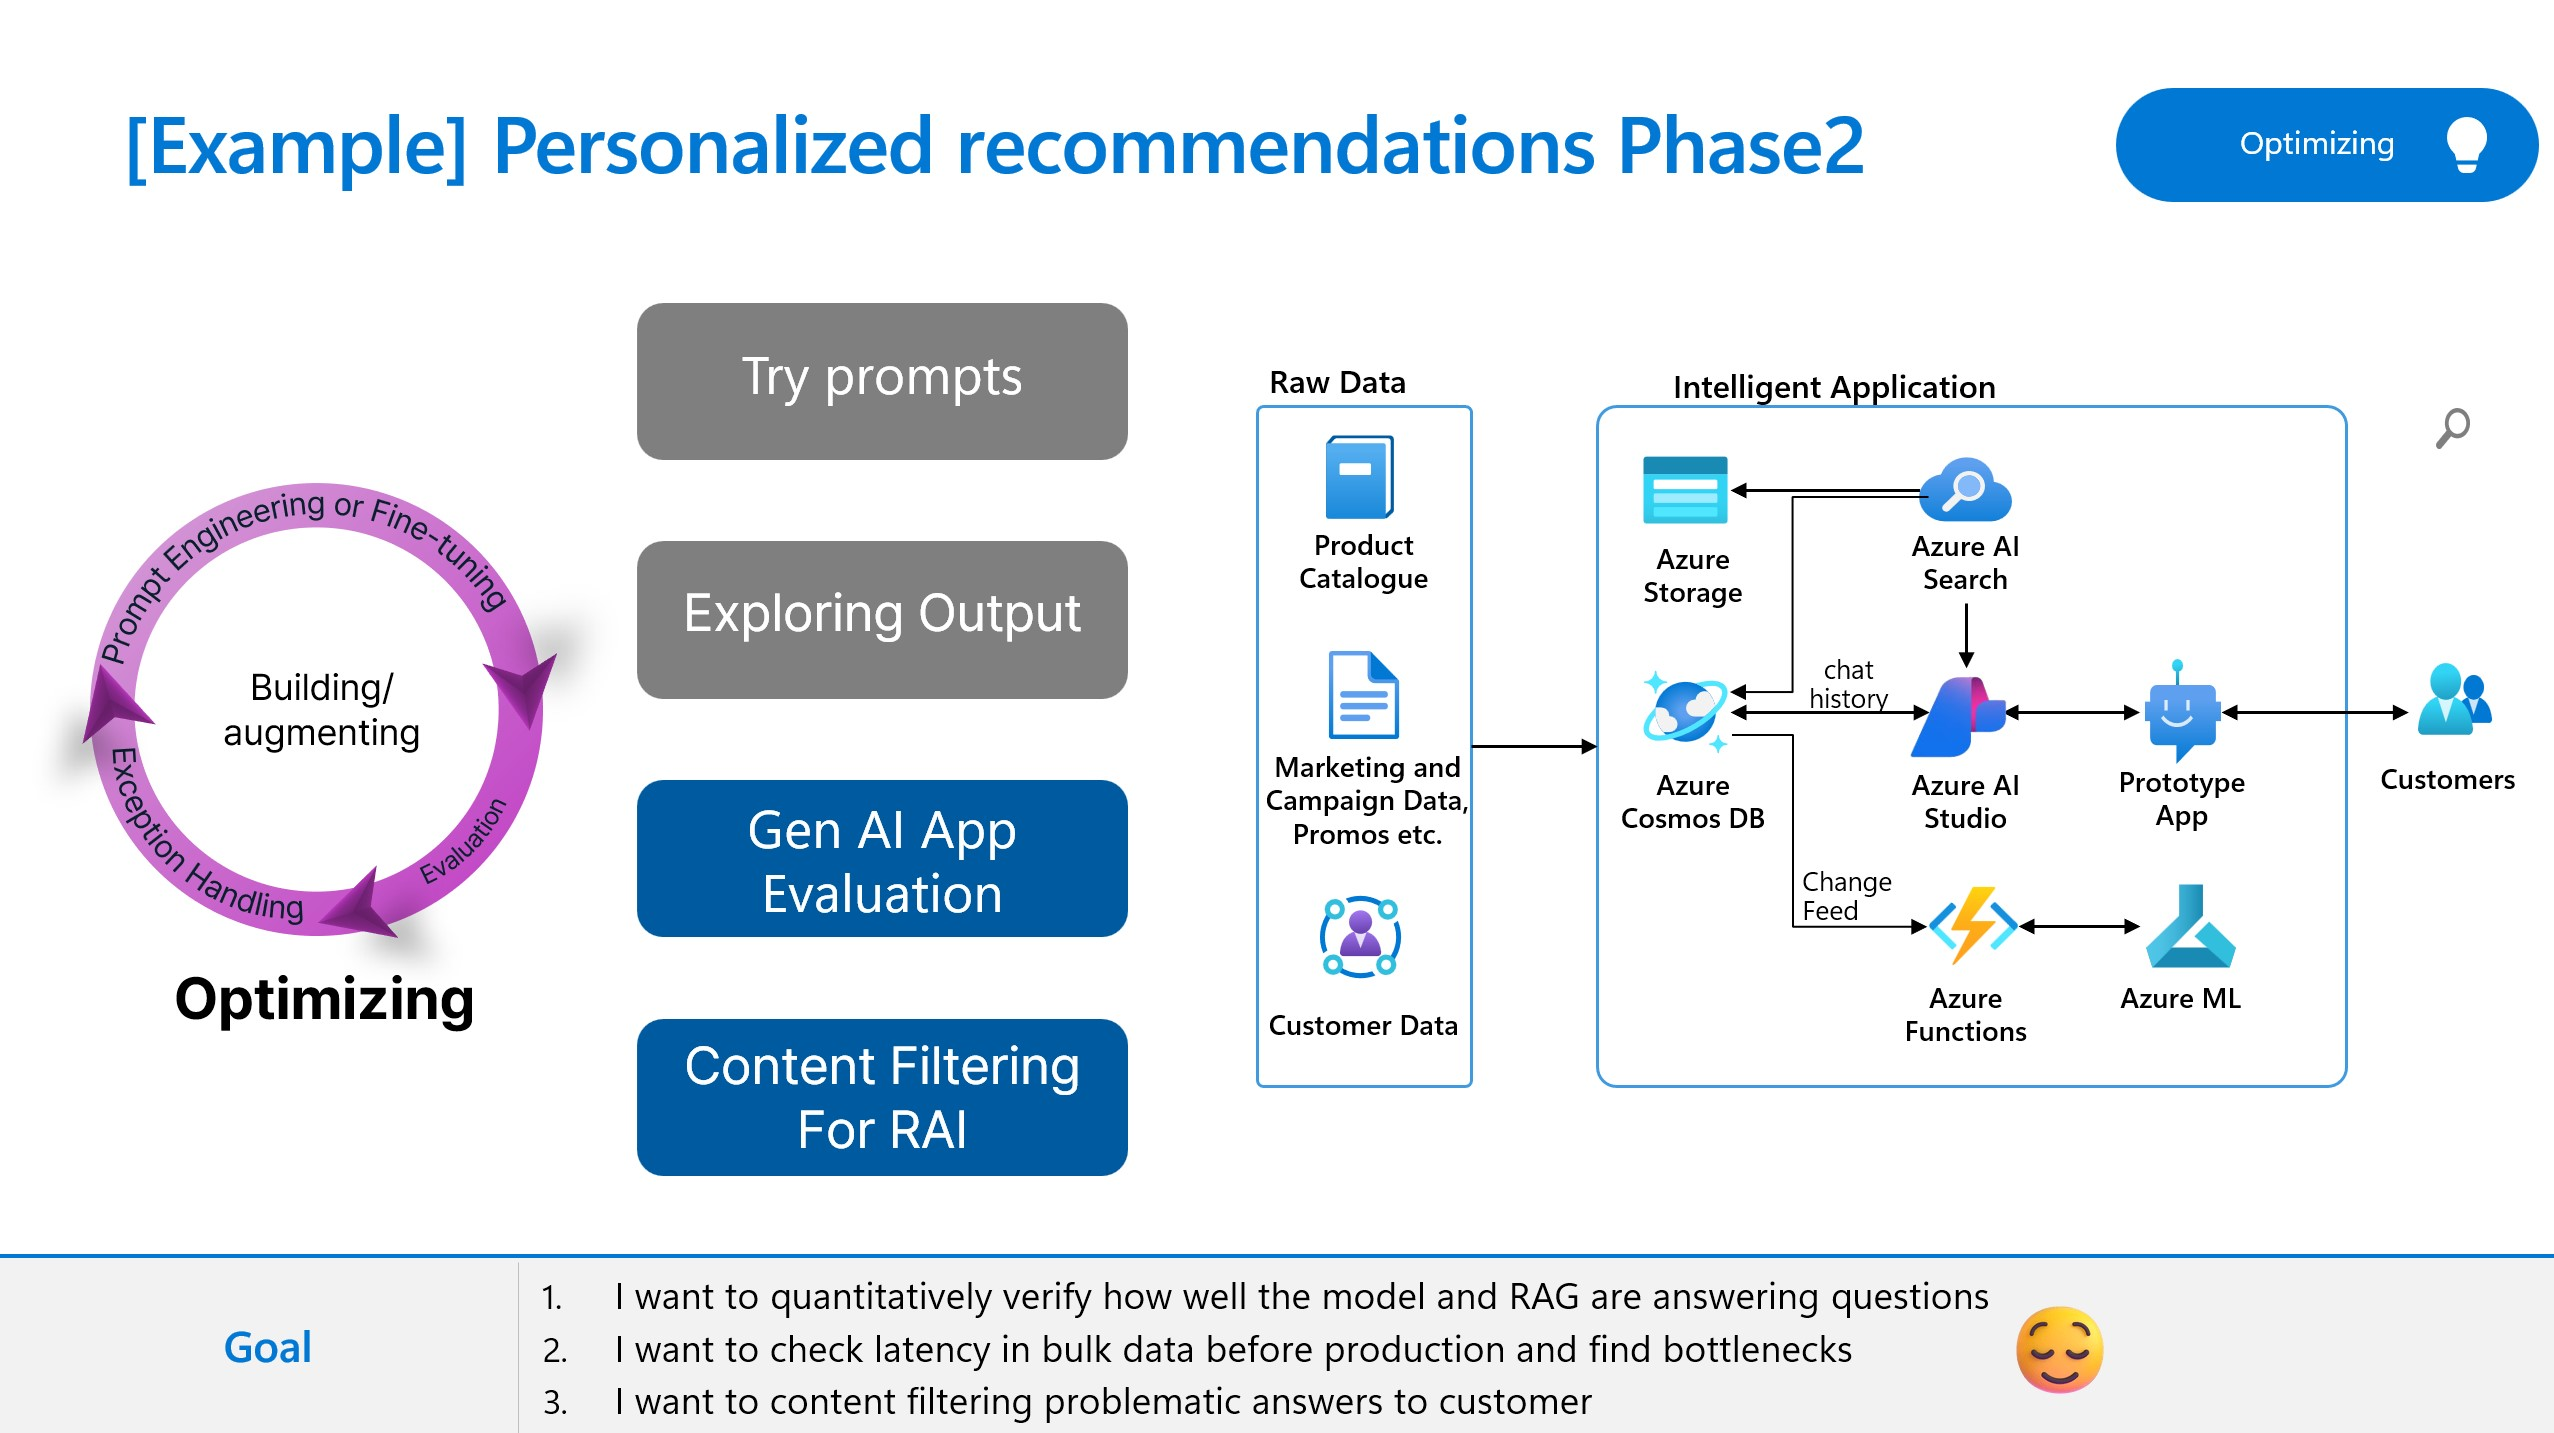
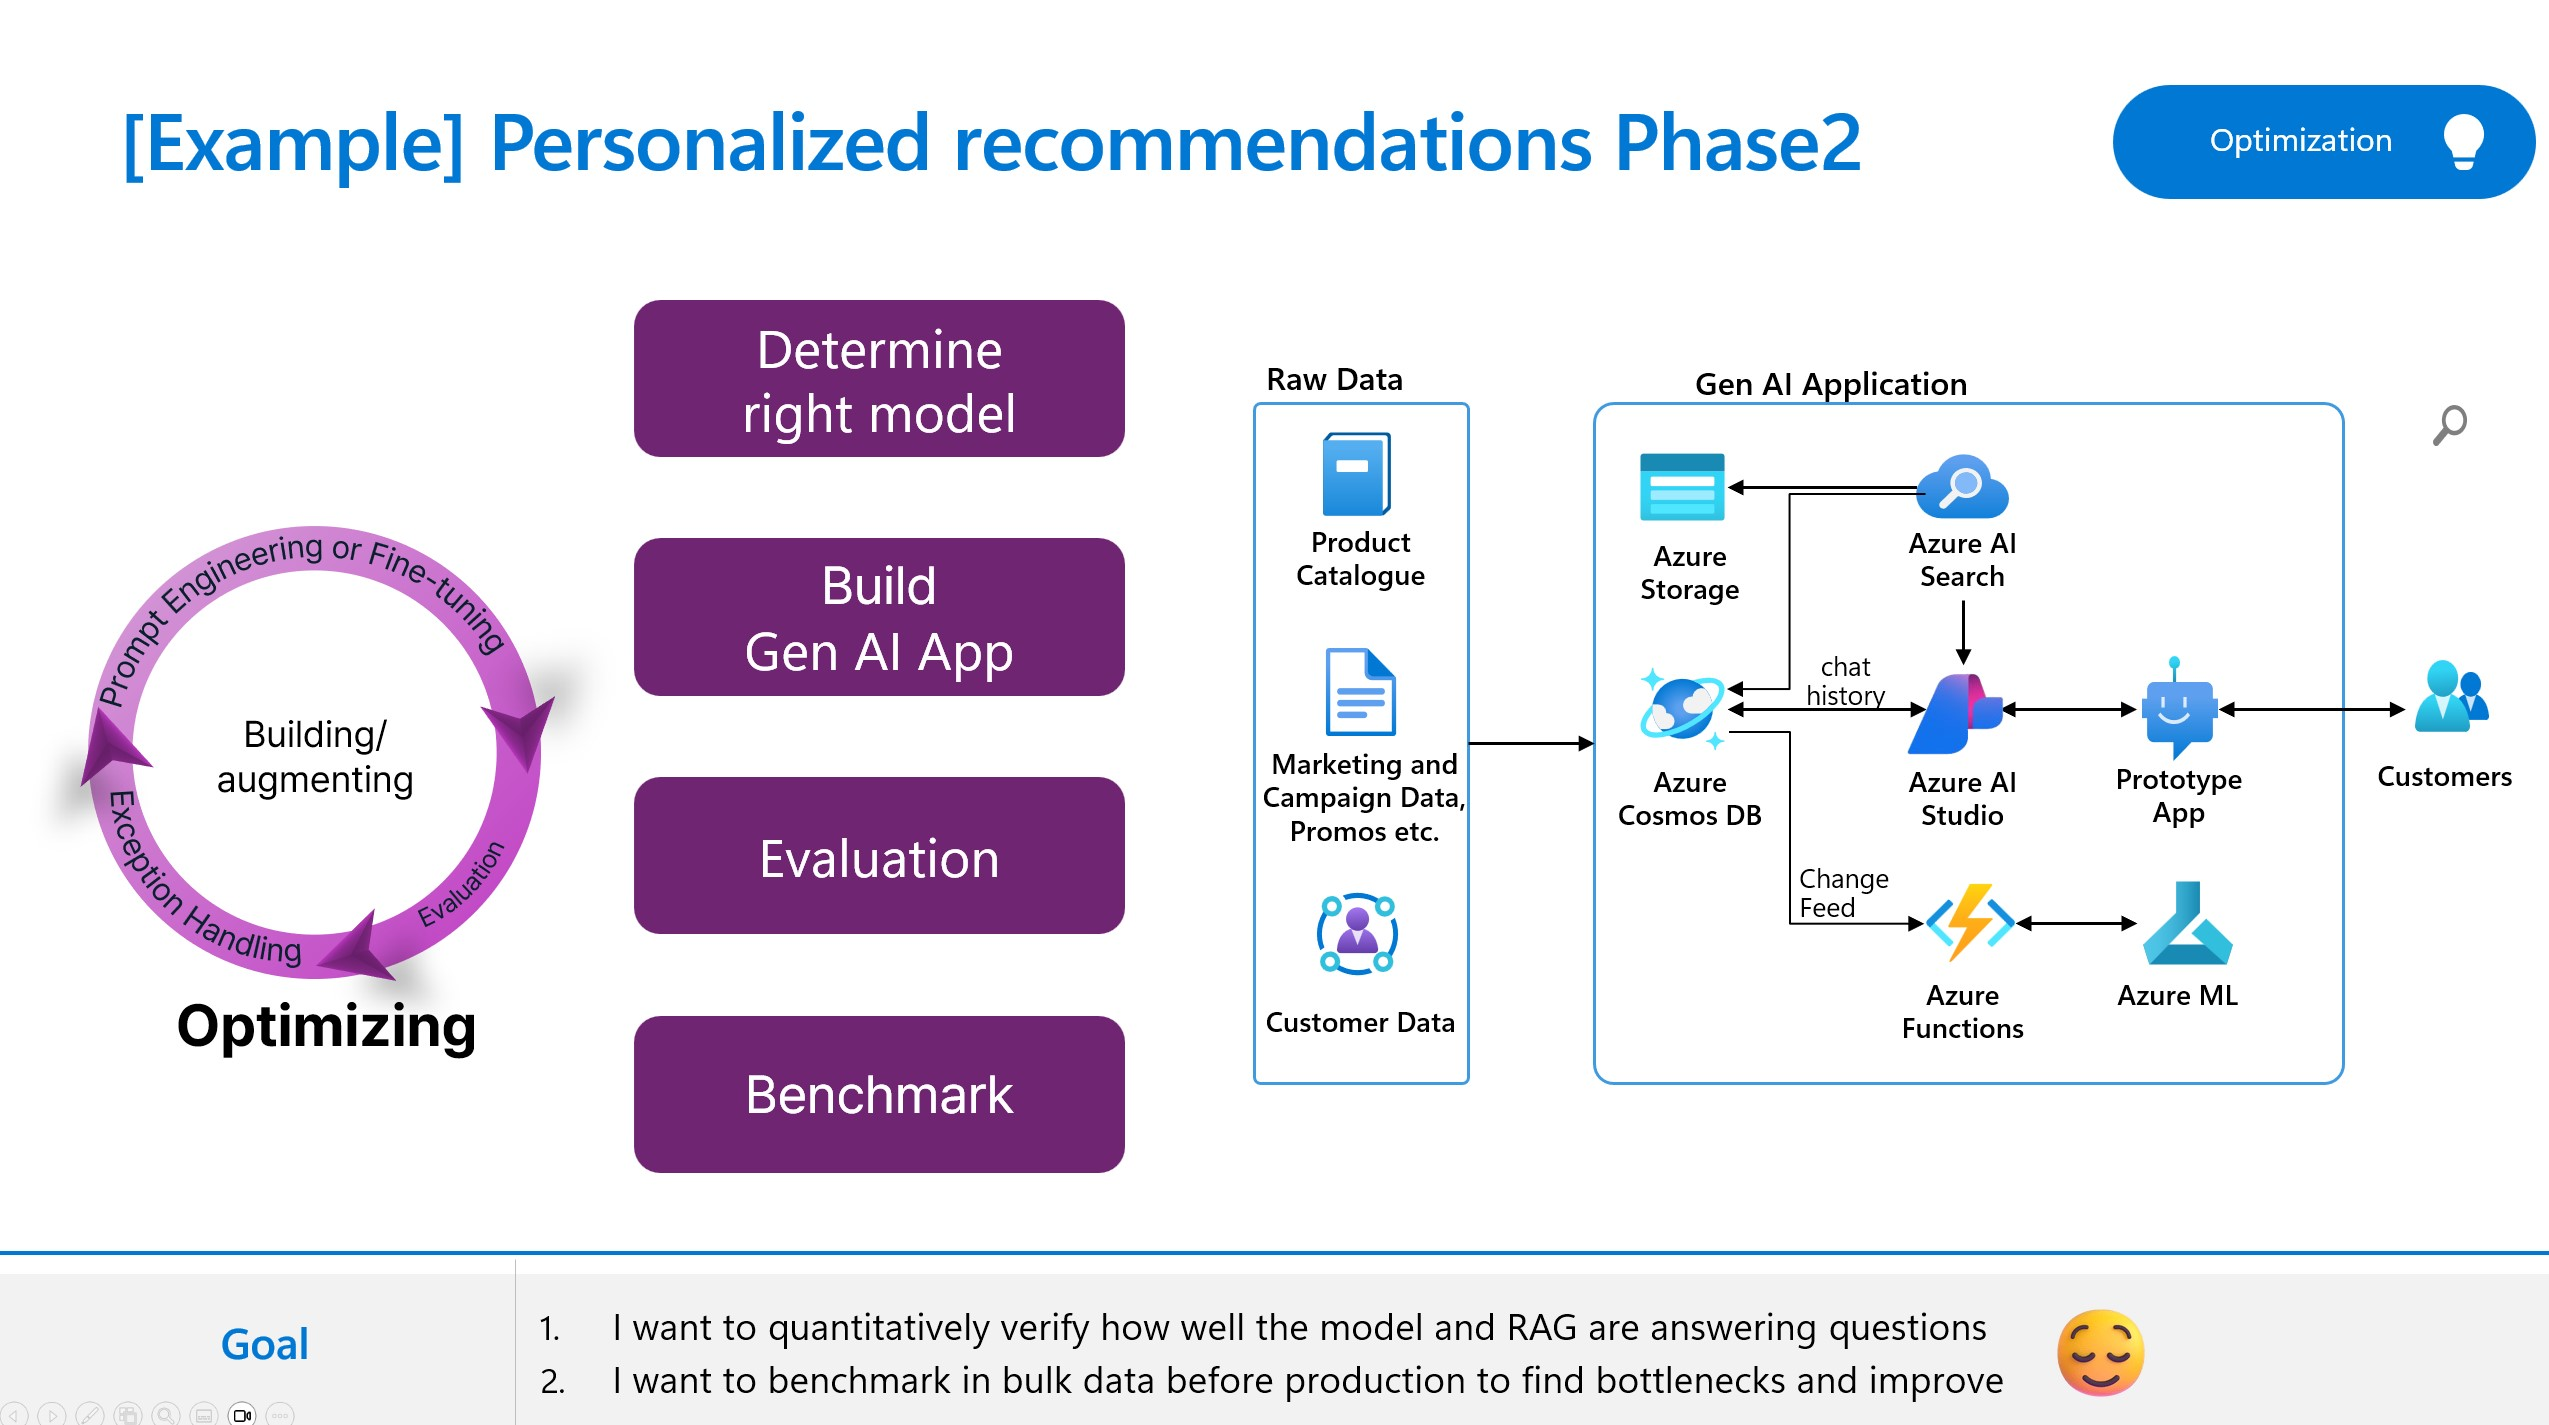
update evaluation

diff --git a/3_llmops-aistudio/3_3_optimizing/lab3.3_evaluation_ko.md b/3_llmops-aistudio/3_3_optimizing/lab3.3_evaluation_ko.md
@@ -15,7 +15,7 @@ In this lab, you will explore your model in Azure AI studio and conduct A/B test
 ### Prerequisites
 
 - An Azure subscription where you can create an AI Hub and AI project Resource
-- Registered the Fine-tune model and deployed LLMs in Azure AI Studio
+- Deployed gpt-4o model in Azure AI Studio
 
 
 ### Task
@@ -26,25 +26,157 @@ In this lab, you will explore your model in Azure AI studio and conduct A/B test
 
 ### TOC
 - 1⃣ Manual evaluations to review outputs of the selected model
-- 1⃣ Create QnA Relevance Evaluation flow 
-- 2⃣ Review the QnA Relevance Evaluation flow 
-- 3⃣ View Test Result of the Evaluation flow
+- 2⃣ Conduct A/B testing with your LLM variants
+
+- 3⃣ Create QnA Relevance Evaluation flow with variants
 - 4⃣ Automated evaluation for Korean and English math questions
 
-### 1⃣ Manual evaluations to review outputs of the selected model
+### 1⃣ Manual evaluations to review outputs of the selected model 
 1. Go to the Azure AI Studio and select the model you want to evaluate.
-2. Click on the "Test" button to test the model with a prompt.
-3. Review the output and check if the model is answering the question correctly.
-4. Repeat the process with different prompts and check the model's performance.
+2. Click on the "Evaluation" tab to create an manual evaluation flow.
+3. Create a manual evaluation flow with the selected model.
 
-### 2⃣ Create QnA Relevance Evaluation flow  
+### 2⃣ Conduct A/B testing with your LLM variants
+Create a new chat flow with variants 
+1. Azure AI Studio > Prompt flow > Click +Create to create a new flow
+![create a new flow](../3_2_prototyping/images/create_new_flow.jpg)
+
+2. In order to get a user-friendly chat interface, select Chat flow
+![select Chat flow](../3_2_prototyping/images/create_new_chat_flow.jpg)
+
+3. Put your folder name to store your Promptflow files and click the Create button
+![Put your folder name](../3_2_prototyping/images/put_folder_name.jpg)
+
+4. Change as raw file model to modify your basic chat flow
+![Put your folder name](../3_2_prototyping/images/change_raw_file_mode.jpg)
+
+5. Modify flow.dag.yaml attach the source code below. 
+```
+id: chat_variant_flow
+name: Chat Variant Flow
+inputs:
+  question:
+    type: string
+    is_chat_input: true
+  contenxt:
+    type: string
+    default: >
+      The Alpine Explorer Tent boasts a detachable divider for privacy, 
+      numerous mesh windows and adjustable vents for ventilation, and 
+      a waterproof design. It even has a built-in gear loft for storing 
+      your outdoor essentials. In short, it's a blend of privacy, comfort, 
+      and convenience, making it your second home in the heart of nature!
+    is_chat_input: false
+  firstName:
+    type: string
+    default: "Jake"
+    is_chat_input: false
+outputs:
+  answer:
+    type: string
+    reference: ${chat_variants.output}
+    is_chat_output: true
+nodes:
+- name: chat_variants
+  type: llm
+  source:
+    type: code
+    path: chat_variants.jinja2
+  inputs:
+    deployment_name: gpt-4o
+    temperature: 0.7
+    top_p: 1
+    max_tokens: 512
+    context: ${inputs.contenxt}
+    firstName: ${inputs.firstName}
+    question: ${inputs.question}
+  api: chat
+  provider: AzureOpenAI
+  connection: ''
+environment:
+  python_requirements_txt: requirements.txt
+```
+6. Change the Raw file mode again and Add the connection parameters of the LLM Node to call the deployed LLM model and Click Validate and parse input. Check inputs to the LLM Node in place.
+![add the connection parameters](images/add_gpt4o_node2.jpg)
+
+7. attach the prompt below on your chat_variants Node to request the deployed model. 
+```
+system:
+You are an AI assistant who helps people find information. As the assistant, 
+you answer questions briefly, succinctly, and in a personable manner using 
+markdown and even add some personal flair with appropriate emojis.
+
+Add a witty joke that begins with “By the way,” or “By the way. 
+Don't mention the customer's name in the joke portion of your answer. 
+The joke should be related to the specific question asked.
+For example, if the question is about tents, the joke should be specifically related to tents.
+
+Respond in your language with a JSON object like this.
+{
+  “answer": 
+  “joke":
+}
+
+# Customer
+You are helping {{firstName}} to find answers to their questions.
+Use their name to address them in your responses.
+
+# Context
+Use the following context to provide a more personalized response to {{firstName}}:
+{{context}}
+
+user:
+{{question}}
+```
+
+8. Save your modified flow. Make sure that your compute instance is running to execute the updated chat flow
+![create a new flow](../3_2_prototyping/images/save_and_run_compute_session.jpg)
+
+9. Let's test the current flow on the chat window
+![test the flow](images/test_current_flow.jpg)
+
+10. Now you can generate a variant and compare the results with the prompt written in Korean. Click the generate variant button to create a new variant.
+![add variants](images/add_variants.jpg)
+
+11. Add the variant name and the prompt in Korean below. Click the save button to save the variant.
+```
+system:
+당신은 사람들이 정보를 찾을 수 있도록 도와주는 AI 어시스턴트입니다. 어시스턴트로서 
+를 사용하여 질문에 간결하고 간결하게, 그리고 개성 있는 방식으로 답변하고 
+마크다운을 사용하여 간단하고 간결하게 답변하고 적절한 이모티콘으로 개인적인 감각을 더할 수도 있습니다.
+
+"그런데, "로 시작하는 재치 있는 농담을 추가하세요. 답변의 농담 부분에서는 고객의 이름을 언급하지 마세요. 
+농담은 질문한 특정 질문과 관련이 있어야 합니다.
+예를 들어 텐트에 대한 질문인 경우 농담은 텐트와 구체적으로 관련된 것이어야 합니다.
+
+다음과 같은 json 객체로 한국어로 응답합니다.
+{
+  "answer": 
+  "joke":
+}
+
+# Customer
+당신은 {{firstName}} 이 질문에 대한 답변을 찾도록 돕고 있습니다.
+답변에 상대방의 이름을 사용하여 상대방을 언급하세요. 
+
+# Context
+다음 컨텍스트를 사용하여 {{firstName}}에게 보다 개인화된 응답을 제공하세요. 한국어로 답변 바랍니다:
+{{context}}
+
+user:
+{{question}}
+```
+
+12. Now you can test the variants on the chat window setting one of variants as default. Click the Run button to test the variant. 
+
+
+
+
+
+### 3⃣ Create QnA Relevance Evaluation flow with variants
 1. Go to the Azure AI Studio and select the model you want to evaluate.
 2. Click on the "Evaluation" tab to create an evaluation flow.
 3. Create a QnA Relevance Evaluation flow with variants.
 4. Review the Evaluation flow and variants.
-
-
-### 3⃣ View Test Result of the Evaluation flow
-- 
 
 ### 4⃣ Automated evaluation for Korean and English math questions

diff --git a/3_llmops-aistudio/README.md b/3_llmops-aistudio/README.md
@@ -10,7 +10,7 @@ In this lab, you will learn how to set up, test, deploy, evaluate and monitor yo
 
 **Scenario 2: Basic LLMOps for your first gen AI app with Promptflow**
 
-**Scenario 3: Evaluate your models using Prompt Flow to improve the quality of service**
+**Scenario 3: Evaluate your models using Prompt Flow to keep optimizing**
 
 **Scenario 4: Responsible AI, Content Safety with Azure AI studio before production** 
 
@@ -28,6 +28,8 @@ In this lab, you will learn how to set up, test, deploy, evaluate and monitor yo
 [LLMOps Prompt flow template github](https://github.com/microsoft/llmops-promptflow-template) 
 
 [GenAIOps github](https://github.com/Azure/GenAIOps)
+
+[Phi-3CookBook](https://github.com/microsoft/Phi-3CookBook?wt.mc_id=studentamb_279723)
 
 https://github.com/just-the-docs/just-the-docs?tab=readme-ov-file#user-content-fn-2-6204df4f8c0dad5766232d4558ca98cf 
 

diff --git a/3_llmops-aistudio/3_2_prototyping/lab3.2_promptflow_ko.md b/3_llmops-aistudio/3_2_prototyping/lab3.2_promptflow_ko.md
@@ -8,9 +8,9 @@ permalink: /3_2_prototyping/
 
 ### Prerequisites
 
-- AI 허브 및 AI 프로젝트 리소스를 만들 수 있는 Azure 구독입니다.
-- 파인튜닝한 모델
+- AI 허브 및 AI 프로젝트 리소스를 만들 수 있는 Azure 구독
 - 파인튜닝한 모델의 온라인 엔드포인트 
+- Azure AI Studio에 배포된 gpt-4o 모델
 
 
 ### Task

diff --git a/3_llmops-aistudio/3_2_prototyping/lab3.2_promptflow_en.md b/3_llmops-aistudio/3_2_prototyping/lab3.2_promptflow_en.md
@@ -9,8 +9,8 @@ permalink: /3_2_prototyping/
 ### Prerequisites
 
 - An Azure subscription where you can create an AI Hub and AI project Resource.
-- Registered the Fine-tune model
-- Online endpoint of the fine-tuned model 
+- Online endpoint of the fine-tuned model in Azure ML Studio
+- Deployed gpt-4o model in Azure AI Studio 
 
 
 ### Task

diff --git a/3_llmops-aistudio/3_4_operationalizing/lab3.4_contentfilter_ko.md b/3_llmops-aistudio/3_4_operationalizing/lab3.4_contentfilter_ko.md
@@ -9,7 +9,7 @@ permalink: /3_4_operationalizing/
 ## Overview
 In this lab, you will experience how to ensure production deployment using content safety / content filter. 
 
-![LLMOps](images/3.3_evaluation_sample.png)
+![LLMOps](images/operation_requirement.jpg)
 
 
 ### Prerequisites
